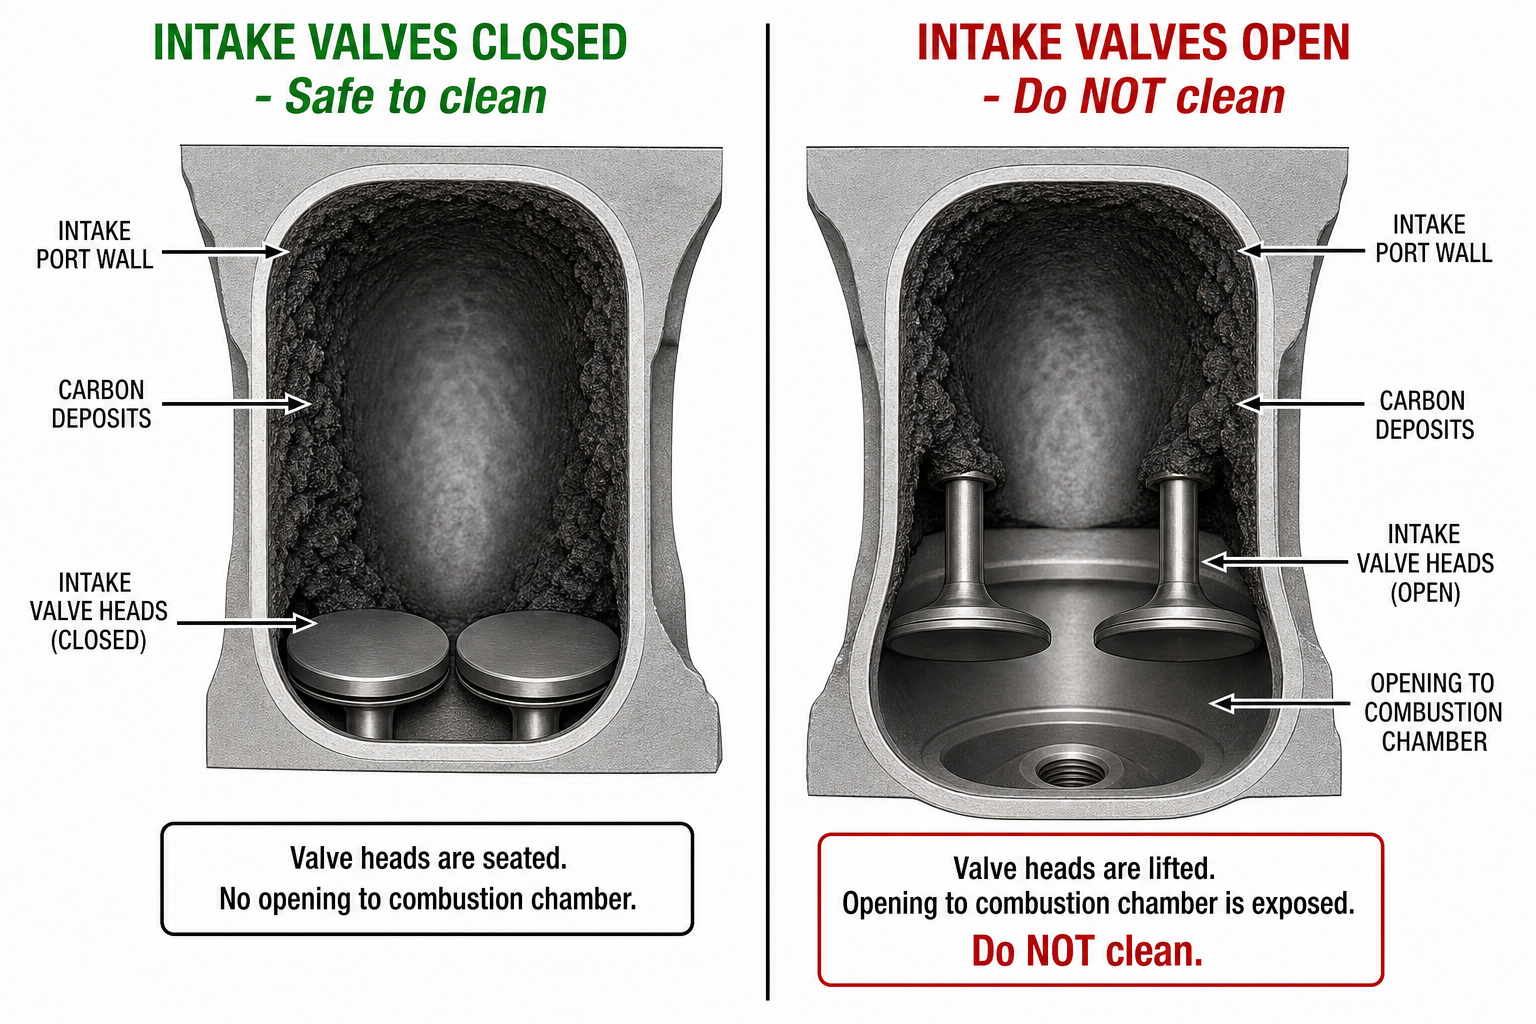
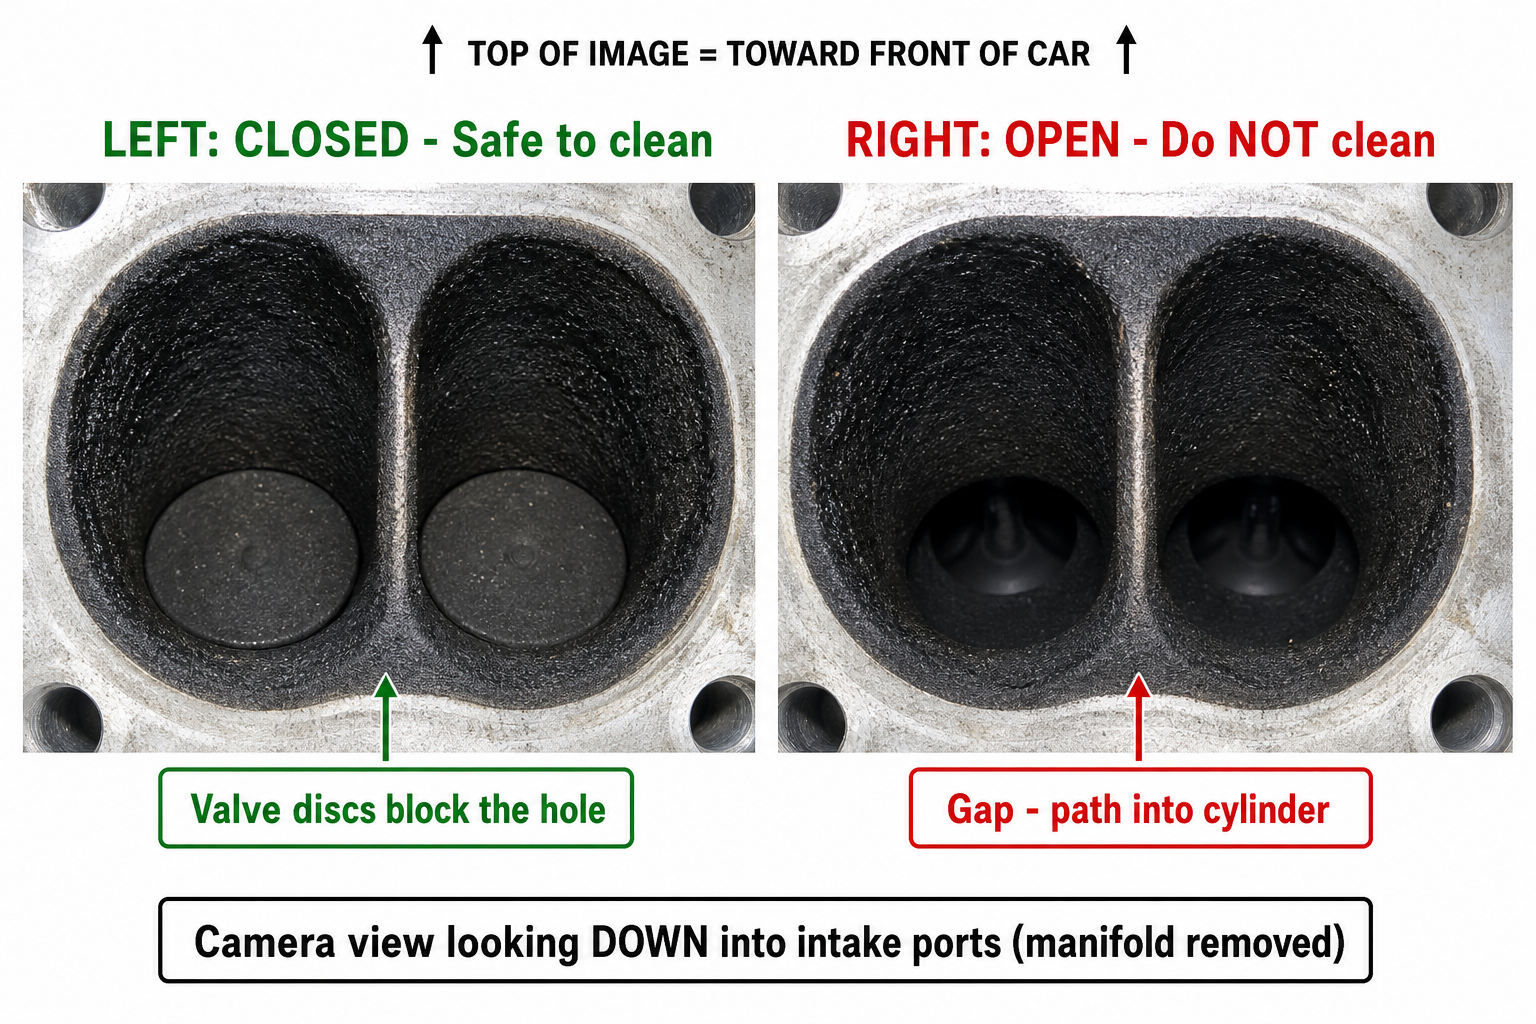
Remove outdated incorrect diagrams; keep only corrected set
Deleted LHD/wrong-port/wrong-arrow images that confused local pulls.
Kept: correct twin-port intake views, downward camera closed/open,
and clockwise crank rotation diagram.

diff --git a/3gr-fse-diagrams/README.md b/3gr-fse-diagrams/README.md
@@ -1,31 +1,38 @@
-# 3GR-FSE Engine Diagrams (2006 GS300 GRS190)
+# 3GR-FSE Engine Diagrams (2006 GS300 GRS190 — Ireland RHD)
 
-**Ireland / UK RHD:** use the RHD-specific files below. Engine parts are identical to LHD;
-only driver/passenger labels in the engine bay are mirrored.
+**Only these files are current.** Older incorrect diagrams were removed.
 
-Open these PNG files directly from this folder in your file explorer or IDE.
+## Use these
 
-## RHD Ireland (correct for your car)
-- `3gr-fse-exploded-rhd.png` — **Exploded view**, all major assemblies labeled
-- `3gr-fse-top-view-RHD-ireland.png` — Top view: Bank 1 = driver side (right of bay)
+| File | What it shows |
+|------|----------------|
+| `3gr-fse-intake-ports-correct.png` | Full intake valley — twin oval ports per cylinder |
+| `3gr-fse-one-cylinder-ports.png` | Close-up: one cylinder = two ovals + bridge |
+| `3gr-fse-exploded-ports-correct.png` | Exploded view with correct ports |
+| `valve-closed-vs-open.png` | Camera looking **down** into ports — CLOSED vs OPEN |
+| `crank-rotation-clockwise.png` | Turn crank **clockwise** only (from front of car) |
 
-## Corrected intake ports (match real 3GR-FSE photo)
-- `3gr-fse-intake-ports-correct.png` — Full valley: twin oval ports per cylinder
-- `3gr-fse-one-cylinder-ports.png` — Close-up: one cylinder = two ovals + bridge
-- `3gr-fse-exploded-ports-correct.png` — Exploded view with correct ports
+## RHD reminder (Ireland)
 
-## Main engine diagrams (LHD labels — use RHD files above instead)
-- `3gr-fse-external-overview.png` — Front/side view, all major external parts labeled
-- `3gr-fse-cutaway-head.png` — Cutaway: cams, valves, injector, piston
-- `3gr-fse-top-view-layout.png` — Top view (LHD passenger/driver labels)
+Standing at the front of the car looking into the bay:
 
-## Valve cleaning
-- `gs300-cylinder-layout.png` — Cylinder numbering (#1–#6)
-- `valve-closed-vs-open.png` — When safe to clean (CLOSED vs OPEN)
-- `crank-rotation-tdc.png` — Turn crank clockwise, 22mm socket
-- `cam-lobe-closed-open.png` — Cam base circle = valves closed
+- **Right side of bay** = driver side = **Bank 1** (cylinders 1, 3, 5)
+- **Left side of bay** = passenger side = **Bank 2** (cylinders 2, 4, 6)
 
-## Reference photos
-- `reference-carbon-in-port.png` — Carbon in intake port
-- `reference-before-after.png` — Before/after cleaning
-- `reference-taped-ports.png` — Taping ports while working
+## After pulling
+
+```bash
+git fetch origin
+git checkout cursor/3gr-fse-diagrams-756c
+git pull
+cd 3gr-fse-diagrams
+ls
+open .
+```
+
+If you still see old files, delete the local folder and re-checkout:
+
+```bash
+rm -rf 3gr-fse-diagrams
+git checkout -- 3gr-fse-diagrams
+```
